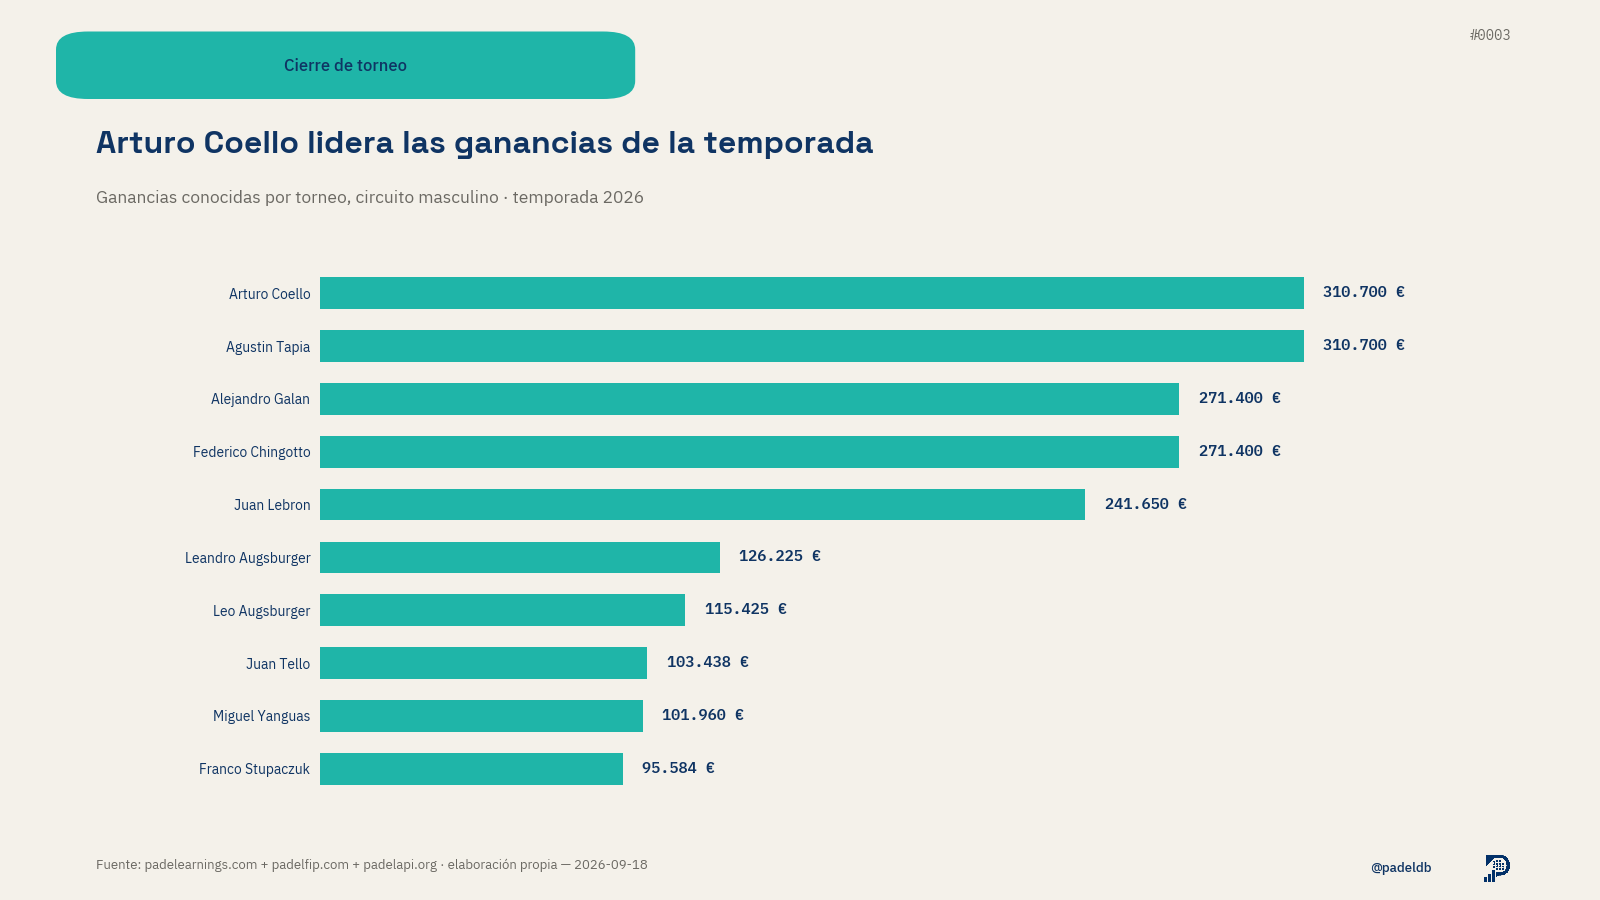
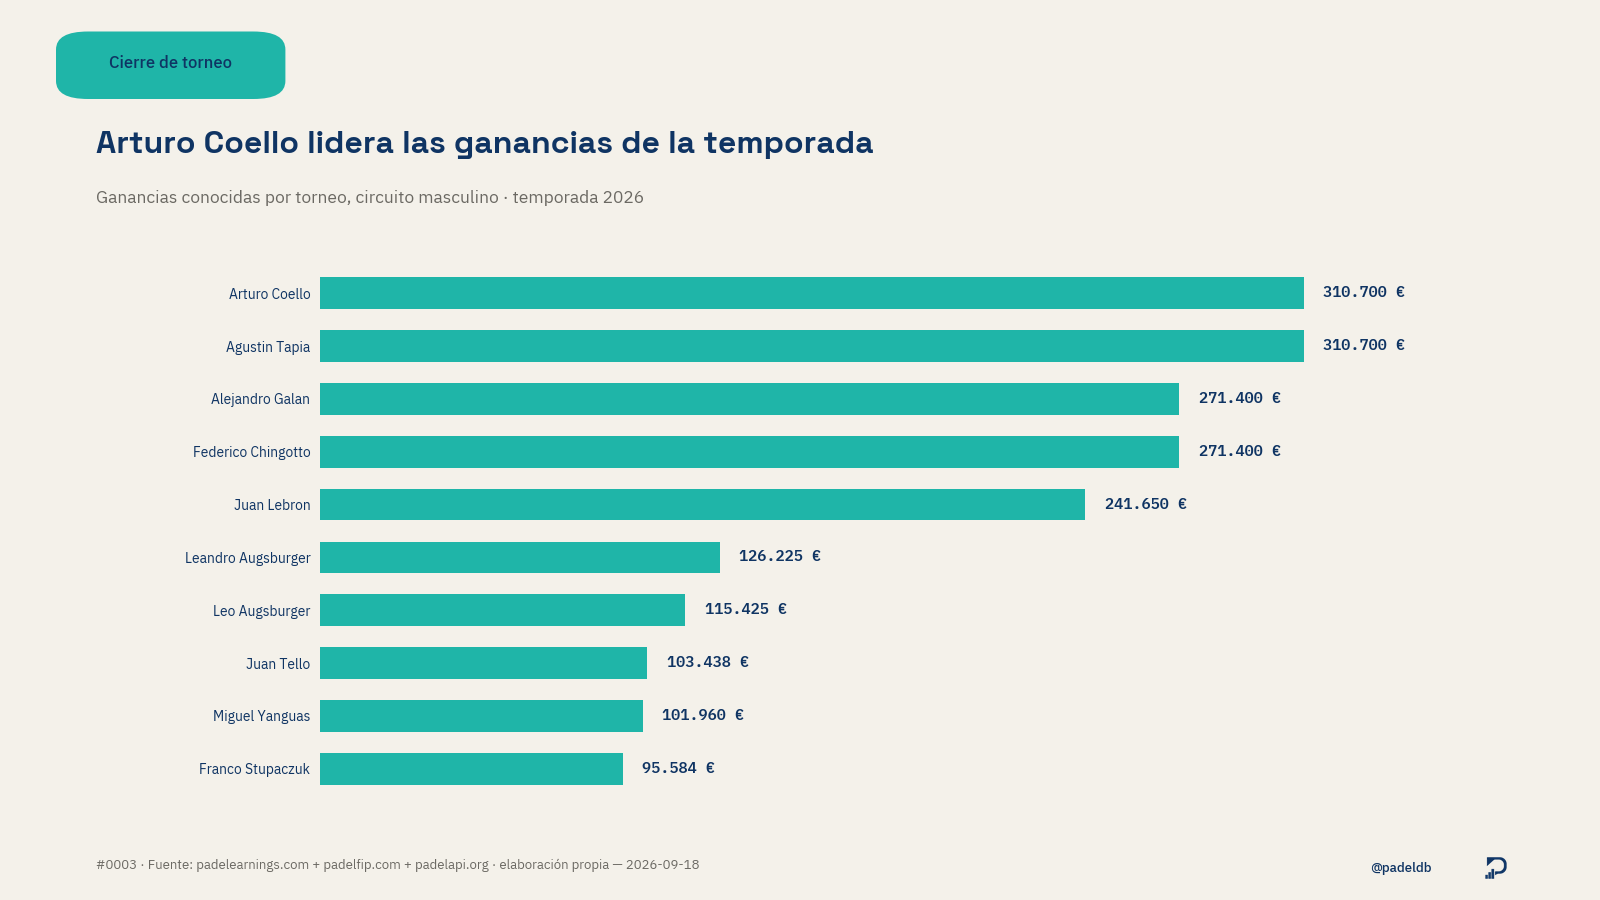
chart_factory: icono nítido, píldora ajustada, registro en el pie
Tres refinamientos pedidos tras ver los primeros gráficos:

- El icono de marca salía pixelado a 24px (la rejilla de puntos de
  brand/padeldb-icon.png no tiene resolución suficiente a ese tamaño,
  comprobado con tres caminos de reescalado distintos, mismo
  resultado). Se sustituye por brand/padeldb-favicon.svg, la "versión
  simplificada sin agujeros para tamaños pequeños" que el propio
  sistema de marca ya preveía — parseado a mano con svg.path (puro
  Python, sin depender de libcairo) y dibujado con matplotlib/Agg.

- Número de registro movido del ángulo superior derecho (aislado,
  competía con el título) al pie, como prefijo de la línea de fuente.

- Píldora de serie: el ancho ahora se mide con PIL.ImageFont sobre el
  TTF real en vez de estimarse por número de caracteres, así que
  frases largas ("Cierre de torneo") no quedan con aire de más
  respecto a las cortas ("#RankingLunes").

Changed region(s): [[0.0625, 0.0311, 0.4062, 0.1244], [0.0625, 0.9333, 0.4375, 0.9644], [0.9062, 0.0311, 0.9375, 0.0622]]

diff --git a/content/chart_factory/marca.py b/content/chart_factory/marca.py
@@ -53,6 +53,12 @@ TAMANO_X = (16.0, 9.0)  # -> 1600x900 a dpi=100
 TAMANO_IG = (10.8, 13.5)  # -> 1080x1350 a dpi=100
 DPI = 100
 
+# Posición del icono en el pie (fracción de figura; origen abajo-izquierda,
+# como el resto de coordenadas de `transFigure`).
+ICONO_X = 0.935
+ICONO_Y = 0.036
+ICONO_ALTO_PX = 24
+
 Tema = Literal["claro", "oscuro"]
 
 
@@ -127,15 +133,38 @@ def nueva_figura(tamano: tuple[float, float], tema: Tema) -> tuple[plt.Figure, p
     return fig, ax
 
 
+def _ancho_texto_frac(fig: plt.Figure, texto: str, fontproperties: FontProperties, fontsize_pt: float) -> float:
+    """Ancho real del texto (en fracción de figura), midiendo con el mismo
+    TTF que se va a dibujar — así una píldora se ajusta al texto en vez de
+    calcularse con una estimación de caracteres que deja huecos o se queda
+    corta según la palabra."""
+    from PIL import ImageFont
+
+    size_px = round(fontsize_pt * fig.dpi / 72)
+    font = ImageFont.truetype(fontproperties.get_file(), size=size_px)
+    izq, _, der, _ = font.getbbox(texto)
+    ancho_px = der - izq
+    return ancho_px / (fig.get_size_inches()[0] * fig.dpi)
+
+
 def pildora_serie(fig: plt.Figure, texto: str, tema: Tema) -> None:
     """Píldora de serie arriba a la izquierda: fondo cristal, texto pista,
-    siempre en el mismo sitio (doc 02 §1.2, punto 1)."""
-    ancho = 0.018 * (len(texto) + 3)
+    siempre en el mismo sitio (doc 02 §1.2, punto 1). El ancho se ajusta al
+    texto real (medido con la propia fuente), no a una estimación por
+    número de caracteres — evita píldoras con demasiado aire alrededor de
+    frases largas como "Cierre de torneo"."""
+    fontsize = 12
+    padding_frac = 0.022
+    ancho_texto = _ancho_texto_frac(fig, texto, Fuentes.texto_medio(), fontsize)
+    ancho = ancho_texto + padding_frac * 2
+    alto = 0.055
+    x0, y0 = 0.045, 0.90
+
     fig.patches.append(
         FancyBboxPatch(
-            (0.045, 0.90),
+            (x0, y0),
             ancho,
-            0.055,
+            alto,
             transform=fig.transFigure,
             boxstyle="round,pad=0.01,rounding_size=0.02",
             facecolor=CRISTAL,
@@ -144,14 +173,14 @@ def pildora_serie(fig: plt.Figure, texto: str, tema: Tema) -> None:
         )
     )
     fig.text(
-        0.045 + ancho / 2,
-        0.927,
+        x0 + ancho / 2,
+        y0 + alto / 2 + 0.002,
         texto,
         transform=fig.transFigure,
         ha="center",
         va="center",
         fontproperties=Fuentes.texto_medio(),
-        fontsize=12,
+        fontsize=fontsize,
         color=PISTA,
         zorder=6,
     )
@@ -182,54 +211,120 @@ def titulo_y_subtitulo(fig: plt.Figure, titulo: str, subtitulo: str, tema: Tema)
 
 
 _ICONO_CACHE: dict[Tema, "Image.Image"] = {}
+_FAVICON_SVG = BRAND_DIR / "padeldb-favicon.svg"
+_FAVICON_RENDER_PX = 480  # resolución de trabajo antes del downsample final
 
 
-def _icono(tema: Tema) -> "Image.Image":
-    """Icono de marca (`brand/padeldb-icon.png`, navy sobre transparente).
-    En tema oscuro se recolorea a Arena (icono en negativo), la regla que
-    ya fija doc 02 §1.2 para el icono sobre fondo Pista — no hay un fichero
-    `-negative` del icono suelto en `brand/` (solo del logo completo), así
-    que el recoloreado se hace aquí en vez de mantener un segundo PNG."""
+def _icono_favicon(tema: Tema) -> "Image.Image":
+    """Rasteriza `brand/padeldb-icon.png` no vale para el pie del gráfico:
+    a 24 px de alto, la rejilla de 12 puntos de la pala se convierte en
+    bloques — el detalle del icono completo excede lo que esos píxeles
+    pueden resolver, sea cual sea el filtro de reescalado (comprobado con
+    LANCZOS y con varios caminos de matplotlib, mismo resultado). El propio
+    sistema de marca ya prevé esto: `padeldb-favicon.svg` es la "versión
+    simplificada sin agujeros para tamaños pequeños" (doc 02 §1.2).
+
+    No hay una librería de rasterizado de SVG sin dependencias nativas
+    fiable en todos los entornos (cairosvg necesita libcairo del sistema;
+    no está garantizado en todos los runners de CI), así que este SVG
+    concreto —un único `<path>` más 3 `<rect>`, con una transformación
+    `translate·scale·translate` fija— se parsea a mano con `svg.path`
+    (puro Python) y se dibuja con matplotlib/Agg, que ya es una
+    dependencia del proyecto. Si el fichero cambia de estructura, esta
+    función falla explícitamente en vez de renderizar algo distinto sin
+    avisar."""
     if tema in _ICONO_CACHE:
         return _ICONO_CACHE[tema]
 
-    from PIL import Image
+    import re
+    import xml.etree.ElementTree as ET
+
     import numpy as np
+    from PIL import Image
+    from svg.path import parse_path
 
-    path = BRAND_DIR / "padeldb-icon.png"
-    if not path.exists():
-        raise FileNotFoundError(f"Falta el icono de marca: {path}")
-    img = Image.open(path).convert("RGBA")
+    if not _FAVICON_SVG.exists():
+        raise FileNotFoundError(f"Falta el favicon de marca: {_FAVICON_SVG}")
 
-    if tema == "oscuro":
-        arr = np.array(img)
-        arena_rgb = tuple(int(ARENA[i : i + 2], 16) for i in (1, 3, 5))
-        arr[..., 0] = arena_rgb[0]
-        arr[..., 1] = arena_rgb[1]
-        arr[..., 2] = arena_rgb[2]
-        img = Image.fromarray(arr, "RGBA")
+    ns = {"svg": "http://www.w3.org/2000/svg"}
+    root = ET.parse(_FAVICON_SVG).getroot()
+    grupo = root.find("svg:g", ns)
+    m = re.match(
+        r"translate\(([-\d.]+) ([-\d.]+)\)\s*scale\(([-\d.]+)\)\s*translate\(([-\d.]+) ([-\d.]+)\)",
+        grupo.attrib["transform"],
+    )
+    if not m:
+        raise ValueError(f"Transform de {_FAVICON_SVG} con una forma inesperada: {grupo.attrib['transform']}")
+    tx1, ty1, escala, tx2, ty2 = (float(v) for v in m.groups())
+
+    def transformar(px: float, py: float) -> tuple[float, float]:
+        return (px + tx2) * escala + tx1, (py + ty2) * escala + ty1
+
+    color = ARENA if tema == "oscuro" else PISTA
+    fig = plt.figure(figsize=(2, 2), dpi=_FAVICON_RENDER_PX / 2)
+    ax = fig.add_axes((0, 0, 1, 1))
+    fig.patch.set_alpha(0)
+
+    grupo_relleno = grupo.find("svg:g", ns)
+    for elem in grupo_relleno:
+        tag = elem.tag.split("}")[-1]
+        if tag == "path":
+            puntos = []
+            for seg in parse_path(elem.attrib["d"]):
+                for i in range(21):
+                    p = seg.point(i / 20)
+                    puntos.append(transformar(p.real, p.imag))
+            ax.add_patch(plt.Polygon(puntos, closed=True, facecolor=color, edgecolor="none"))
+        elif tag == "rect":
+            x, y = float(elem.attrib["x"]), float(elem.attrib["y"])
+            w, h = float(elem.attrib["width"]), float(elem.attrib["height"])
+            esquinas = [transformar(cx, cy) for cx, cy in ((x, y), (x + w, y), (x + w, y + h), (x, y + h))]
+            ax.add_patch(plt.Polygon(esquinas, closed=True, facecolor=color, edgecolor="none"))
+
+    ax.set_xlim(0, 1000)
+    ax.set_ylim(0, 1000)
+    ax.invert_yaxis()
+    ax.set_aspect("equal")
+    ax.axis("off")
+
+    fig.canvas.draw()
+    arr = np.asarray(fig.canvas.buffer_rgba())
+    img = Image.fromarray(arr, "RGBA")
+    plt.close(fig)
 
     _ICONO_CACHE[tema] = img
     return img
 
 
-def icono_marca(fig: plt.Figure, x: float, y: float, tema: Tema, alto_px: float = 24) -> None:
-    """Icono de marca a `alto_px` de alto (doc 02 §1.2, punto 6: '24 px')."""
-    from matplotlib.offsetbox import AnnotationBbox, OffsetImage
-    import numpy as np
+def guardar_figura(fig: plt.Figure, out_file: Path, tema: Tema) -> None:
+    """Guarda la figura y compone el icono de marca encima con Pillow, en
+    vez de dibujarlo dentro de matplotlib (`OffsetImage`/`imshow`): a los
+    tamaños pequeños del pie, componerlo aparte con un resize LANCZOS al
+    tamaño final exacto en píxeles da un resultado nítido y predecible,
+    frente al reescalado peor (o mal alineado en píxeles) de los caminos
+    internos de matplotlib."""
+    from PIL import Image
 
-    img = _icono(tema)
-    zoom = alto_px / img.height
-    imagebox = OffsetImage(np.array(img), zoom=zoom)
-    ab = AnnotationBbox(imagebox, (x, y), xycoords=fig.transFigure, frameon=False, box_alignment=(0.5, 0.5), zorder=6)
-    fig.add_artist(ab)
+    fig.savefig(out_file, facecolor=fig.get_facecolor())
+
+    icono = _icono_favicon(tema)
+    alto_px = round(ICONO_ALTO_PX)
+    ancho_px = round(icono.width * alto_px / icono.height)
+    icono_final = icono.resize((ancho_px, alto_px), Image.LANCZOS)
+
+    lienzo = Image.open(out_file).convert("RGBA")
+    x_px = round(ICONO_X * lienzo.width - ancho_px / 2)
+    y_px = round((1 - ICONO_Y) * lienzo.height - alto_px / 2)
+    lienzo.paste(icono_final, (x_px, y_px), icono_final)
+    lienzo.convert("RGB").save(out_file)
 
 
 def pildora_db(fig: plt.Figure, x: float, y: float, tema: Tema) -> None:
     """La píldora DB (doc 02 §1.2): firma compacta para miniaturas pequeñas
     donde el icono no cabe — rectángulo 2:1 cristal con 'DB' en IBM Plex
     Mono negrita en color pista. En el pie normal se usa el icono real
-    (`icono_marca`); esta píldora queda disponible para formatos pequeños."""
+    (compuesto en `guardar_figura`); esta píldora queda disponible para
+    formatos pequeños."""
     ancho, alto = 0.042, 0.032
     fig.patches.append(
         FancyBboxPatch(
@@ -247,13 +342,18 @@ def pildora_db(fig: plt.Figure, x: float, y: float, tema: Tema) -> None:
 
 
 def pie_de_grafico(fig: plt.Figure, fuente_txt: str, tema: Tema, registro: str | None = None) -> None:
-    """Pie fijo (doc 02 §1.2, punto 6): fuente a la izquierda, icono a
-    24 px y @padeldb a la derecha; número de registro arriba a la derecha."""
+    """Pie fijo (doc 02 §1.2, punto 6): número de registro (discreto, junto
+    a la fuente en vez de arriba a la derecha como marca el doc — se
+    mantiene el dato pero fuera del área del título, menos protagonismo),
+    fuente a la izquierda, hueco para el icono e @padeldb a la derecha. El
+    icono en sí no se dibuja aquí (ver `guardar_figura`): se compone con
+    Pillow sobre el PNG ya guardado, en la posición `ICONO_X`/`ICONO_Y`."""
     colores = colores_tema(tema)
+    texto_fuente = f"{registro} · Fuente: {fuente_txt}" if registro else f"Fuente: {fuente_txt}"
     fig.text(
         0.06,
         0.035,
-        f"Fuente: {fuente_txt}",
+        texto_fuente,
         transform=fig.transFigure,
         fontproperties=Fuentes.texto(),
         fontsize=9.5,
@@ -271,20 +371,6 @@ def pie_de_grafico(fig: plt.Figure, fuente_txt: str, tema: Tema, registro: str |
         ha="right",
         va="center",
     )
-    icono_marca(fig, 0.935, 0.036, tema)
-
-    if registro:
-        fig.text(
-            0.945,
-            0.955,
-            registro,
-            transform=fig.transFigure,
-            fontproperties=Fuentes.cifra_regular(),
-            fontsize=10,
-            color=colores["texto_secundario"],
-            ha="right",
-        )
-
 
 def limpiar_ejes(ax: plt.Axes, tema: Tema) -> None:
     colores = colores_tema(tema)

diff --git a/content/chart_factory/ranking_moves.py b/content/chart_factory/ranking_moves.py
@@ -22,6 +22,7 @@ from content.chart_factory.marca import (
     Fuentes,
     Tema,
     colores_tema,
+    guardar_figura,
     limpiar_ejes,
     nueva_figura,
     pie_de_grafico,
@@ -116,7 +117,7 @@ def build(sexo: str = "M") -> list[Path]:
     for tema, tamano, sufijo in (("claro", TAMANO_X, "16x9"), ("claro", TAMANO_IG, "4x5"), ("oscuro", TAMANO_X, "16x9_oscuro")):
         fig = _dibujar(top, sexo, fecha, tamano, tema, registro)
         out_file = out_dir / f"ranking_movimientos_{sexo.lower()}_{sufijo}.png"
-        fig.savefig(out_file, facecolor=fig.get_facecolor())
+        guardar_figura(fig, out_file, tema)
         plt.close(fig)
         salidas.append(out_file)
         print(f"{registro} {out_file.relative_to(REPO_ROOT)}")

diff --git a/content/chart_factory/ganancias.py b/content/chart_factory/ganancias.py
@@ -14,6 +14,7 @@ from content.chart_factory.marca import (
     Fuentes,
     Tema,
     colores_tema,
+    guardar_figura,
     limpiar_ejes,
     nueva_figura,
     pie_de_grafico,
@@ -111,7 +112,7 @@ def build(sexo: str = "M") -> list[Path]:
     for tema, tamano, sufijo in (("claro", TAMANO_X, "16x9"), ("claro", TAMANO_IG, "4x5")):
         fig = _dibujar(top, sexo, fecha, tamano, tema, registro)
         out_file = out_dir / f"ganancias_temporada_{sexo.lower()}_{sufijo}.png"
-        fig.savefig(out_file, facecolor=fig.get_facecolor())
+        guardar_figura(fig, out_file, tema)
         plt.close(fig)
         salidas.append(out_file)
         print(f"{registro} {out_file.relative_to(REPO_ROOT)}")

diff --git a/docs/campos-chart-factory.md b/docs/campos-chart-factory.md
@@ -46,24 +46,50 @@ Las tres familias son de Google Fonts bajo licencia SIL Open Font License
 1.1 (gratuitas para este uso, redistribución incluida); los TTF se bajaron
 del propio repositorio oficial `google/fonts` en GitHub.
 
-## El icono real
+## El icono real, y por qué no es `padeldb-icon.png`
 
 El usuario añadió `brand/` con el icono y el logo (SVG + PNG) al ratito de
-empezar esta fase. El pie de cada gráfico usa `brand/padeldb-icon.png`
-(`icono_marca()` en `marca.py`) a 24 px de alto, como pide doc 02 §1.2
-punto 6. No hay un `padeldb-icon-negative.png` suelto en `brand/` (solo el
-logo vertical completo tiene versión negativa) — para el tema oscuro,
-`_icono()` recolorea el PNG de Pista a Arena en memoria con Pillow/numpy
-(sustituir los píxeles RGB conservando el canal alfa), aplicando la misma
-regla de color que ya fija el doc para el icono en negativo, sin depender
-de que exista un segundo fichero.
+empezar esta fase. El primer intento usó `brand/padeldb-icon.png` (el
+icono completo, con la rejilla de 12 puntos de la pala) a 24 px de alto —
+y a ese tamaño la rejilla se convertía en bloques en vez de círculos,
+por mucho que se cuidara el reescalado (se probaron `OffsetImage`, ejes
+insertados con `imshow`, y un resize de Pillow con LANCZOS compuesto
+aparte con `paste()`; los tres dieron el mismo resultado, confirmado
+comparando los píxeles exactos). La causa no era el método de
+reescalado: a 24 px la rejilla de puntos simplemente no tiene resolución
+suficiente para leerse como círculos, sea cual sea el filtro.
+
+El propio sistema de marca ya preveía este problema: `brand/padeldb-favicon.svg`
+es, según su propia descripción en doc 02 §1.2, la "versión simplificada
+sin agujeros para tamaños pequeños" — un `<path>` de la P más 3 `<rect>`
+de las barras, sin la rejilla de puntos. `_icono_favicon()` en `marca.py`
+parsea ese SVG a mano (`svg.path`, puro Python, sin dependencias nativas
+de sistema como libcairo — se descartó `cairosvg` por eso, no está
+garantizado que el runner de CI tenga esa librería instalada) y lo dibuja
+con matplotlib/Agg a alta resolución, para reducirlo después con Pillow
+(LANCZOS) al tamaño final exacto. El resultado es nítido a 24 px. El icono
+completo (`padeldb-icon.png`) queda disponible en `brand/` para usos a
+tamaño grande (avatar, cabecera) que no son responsabilidad de
+`chart_factory`.
+
+Para el tema oscuro, la P se dibuja directamente en Arena en vez de Pista
+(no hace falta recolorear un PNG a posteriori, al ser un dibujo vectorial
+propio) — mismo criterio de "icono en negativo sobre fondo Pista" que fija
+el doc.
 
 La píldora de texto "DB" (`pildora_db()`) se mantiene en el módulo para
 su uso previsto por el propio doc: firma compacta en miniaturas donde el
 icono no cabe — no se usa ya en el pie estándar de un gráfico a tamaño
 completo.
 
-## Número de registro
+## Número de registro: en el pie, no arriba a la derecha
+
+El doc 02 §1.2 pide el número de registro "arriba a la derecha". Se probó
+así primero, pero quedaba como un elemento aislado que competía visualmente
+con el título; a petición del usuario, se movió al pie, como prefijo de la
+línea de fuente (`#0003 · Fuente: ...`) — mismo dato, correlativo y
+visible, pero integrado en el bloque de atribución en vez de flotando
+solo en una esquina.
 
 `content/chart_factory/registro.json` es un contador simple y persistente
 (commiteado, no en `.gitignore`): cada llamada a `siguiente_registro()`
@@ -71,6 +97,16 @@ incrementa y guarda. En la Fase 4 completa, cuando exista de verdad la
 cola (`queue/candidates.json`, doc 03 §6), el número de registro debería
 vivir ahí en vez de en un fichero aparte — este contador es la versión
 mínima mientras esa cola no se ha construido todavía.
+
+## Píldora de serie: ancho ajustado al texto real
+
+La primera versión calculaba el ancho de la píldora a partir del número de
+caracteres del texto (una estimación), lo que dejaba frases largas como
+"Cierre de torneo" con demasiado aire a la derecha frente a series cortas
+como "#RankingLunes". Se sustituyó por una medición real: `_ancho_texto_frac()`
+carga el mismo TTF que se va a dibujar con `PIL.ImageFont` y mide el ancho
+exacto en píxeles del texto a ese tamaño de letra, así que la píldora se
+ajusta a cualquier frase con el mismo margen proporcional.
 
 ## Series migradas a la plantilla completa
 
